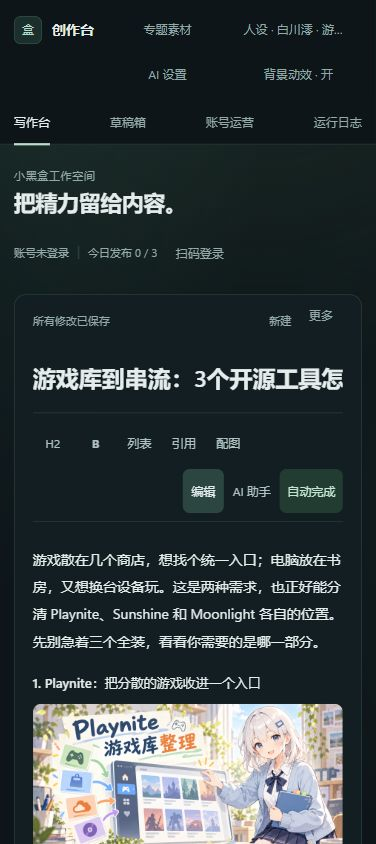
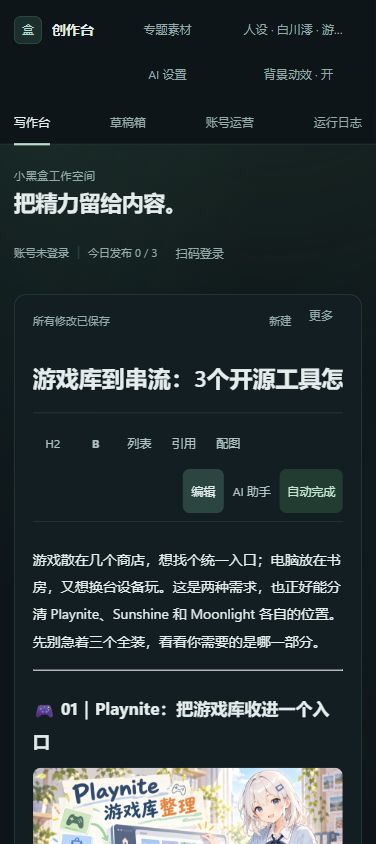
Refine published showcase with section breaks and official site screenshots

Changed region(s): [[0.0878, 0.8009, 0.9362, 1.0]]

diff --git a/examples/showcase/game-tools-20261102/README.md b/examples/showcase/game-tools-20261102/README.md
@@ -2,7 +2,7 @@
 
 [小黑盒实际帖子：游戏库到串流：3个开源工具怎么分工](https://xiaoheihe.cn/app/bbs/link/195802469)
 
-2026-11-02 使用 xiaoheihe-agent v0.6.1 的 `xhh autopilot` 生成，并按用户明确授权发布到账号「galgameの糕手」的 PC游戏 分区。文章以 Playnite、Sunshine、Moonlight 为例，展示项目分栏、用途说明、来源引用，以及同一人设下三种构图的原创配图。
+2026-11-02 使用 xiaoheihe-agent v0.6.1 的 `xhh autopilot` 生成，并按用户明确授权发布到账号「galgameの糕手」的 PC游戏 分区。文章以 Playnite、Sunshine、Moonlight 为例，展示项目分栏、用途说明、来源引用，以及同一人设下三种构图的原创配图。按用户反馈于同日编辑原帖，补入三个项目官网的真实首页截图、二级粗体标题、章节分隔和五处emoji点缀。
 
 ## 工具真实成稿预览
 
@@ -21,16 +21,18 @@
 1. 阅读项目官方资料，整理当前可核对的用途、平台、许可与来源；没有使用星数、周榜、帧率或延迟来包装结论。
 2. 用自动成稿工具规划并生成正文。agent 完成读者口吻与排版审校，将自然语言图片位置对齐到正文中的准确标题。
 3. 以任务冻结的白川澪人设编译三张提示词，宿主内置生图后逐张回填。角色识别特征一致，布局、动作与功能图形随项目变化。
-4. 共4次文本模型调用，3张原创角色概念插画。原稿有 agent 审校，不将本例描述为完全无人介入的实验。
+4. 原稿共4次文本模型调用，3张原创角色概念插画；修订版另加入3张官网实页截图，合计6张图。原稿有 agent 审校，不将本例描述为完全无人介入的实验。
 5. 事实核对、重复与发布检查均通过，无阻断项、无提醒项。取得明确发布授权后执行一次提交，并读取帖子详情核对归属、标题与分区。
 
-正文按官方资料整理，未进行三款工具的安装、串流或性能实测。插画不作为软件运行截图或性能证据。
+正文按官方资料整理，未进行三款工具的安装、串流或性能实测。插画不作为软件运行截图或性能证据；官网截图属于项目网站本身的展示，并保留各自来源链接与截图日期。
 
 ## 文件
 
 | 文件 | 用途 |
 | --- | --- |
 | [post.md](post.md) | 发布正文的本地图片版本 |
+| [brief.json](brief.json) | 修订稿的读者问题、结论与官方来源选题卡 |
+| [website-sources.json](website-sources.json) | 三张官网截图的出处、日期与用途 |
 | [materials.txt](materials.txt) | 根据官方来源整理的写作材料 |
 | [instruction.txt](instruction.txt) | 启动任务时的写作要求 |
 | [persona.json](persona.json) | 本次任务冻结的完整人设卡 |

diff --git a/docs/writing-style-tool-roundups.md b/docs/writing-style-tool-roundups.md
@@ -21,3 +21,12 @@
 生成插画可以承担主题表达、项目导览和概念解释；原始文档、真实界面截图和可追溯记录承担事实说明。生成图不伪装运行截图或实测结果。没有核对的数字、许可证、日期与代码就不写进图；复杂表格、密集代码和小字说明优先保留为正文。
 
 学习卡保存在 `notes/study/cards/195536438.json`，写作时按选题适配，不全局锁死为同一格式。当前人设的文章场景也包含可选合集节奏。
+
+
+## 本次示范修订后的排版约定
+
+项目合集的主章节优先使用二级标题，必要时加粗，章节之间用分隔线或明确留白；三级标题用于章节内部的小项，避免项目主标题与正文混在一起。emoji可以在项目标题、提示便签等位置少量点缀，数量按内容需要，不要求每段出现。
+
+配图兼顾角色导览与原始项目资料。有可读取、适合展示的官网或官方文档时，加入真实页面截图，图下注明来源和截图日期；保留页面原有标识，不把截图说成本篇安装实测。不用AI图填充所谓“官网截图”。正文缺少可用截图时说明实际情况，不能凭空制造。
+
+2026-11-02 的 [游戏工具示范](../examples/showcase/game-tools-20261102/README.md) 已据此修订为三个项目章节、四个二级标题、三张角色图与三张官网截图，并用五处emoji点缀。原帖采用编辑更新，保留原链接。

diff --git a/README.md b/README.md
@@ -31,7 +31,7 @@ xhh publish --md 稿子.md --title "标题" --tag 1 --yes
 
 ![白川澪工具合集 WebUI 成稿预览](examples/showcase/game-tools-20261102/screenshots/webui-desktop.jpg)
 
-示范稿使用 v0.6.1 的自动成稿、人设配图和发布检查，经过 agent 审校；三张插画围绕各项目改变构图。
+示范稿使用 v0.6.1 的自动成稿、人设配图和发布检查，经过 agent 审校；三张插画围绕各项目改变构图，并配三张真实官网截图；主章节采用二级标题、分隔和少量emoji点缀。
 
 
 用 `xhh publish` 发出来的帖子（App 实拍）：
